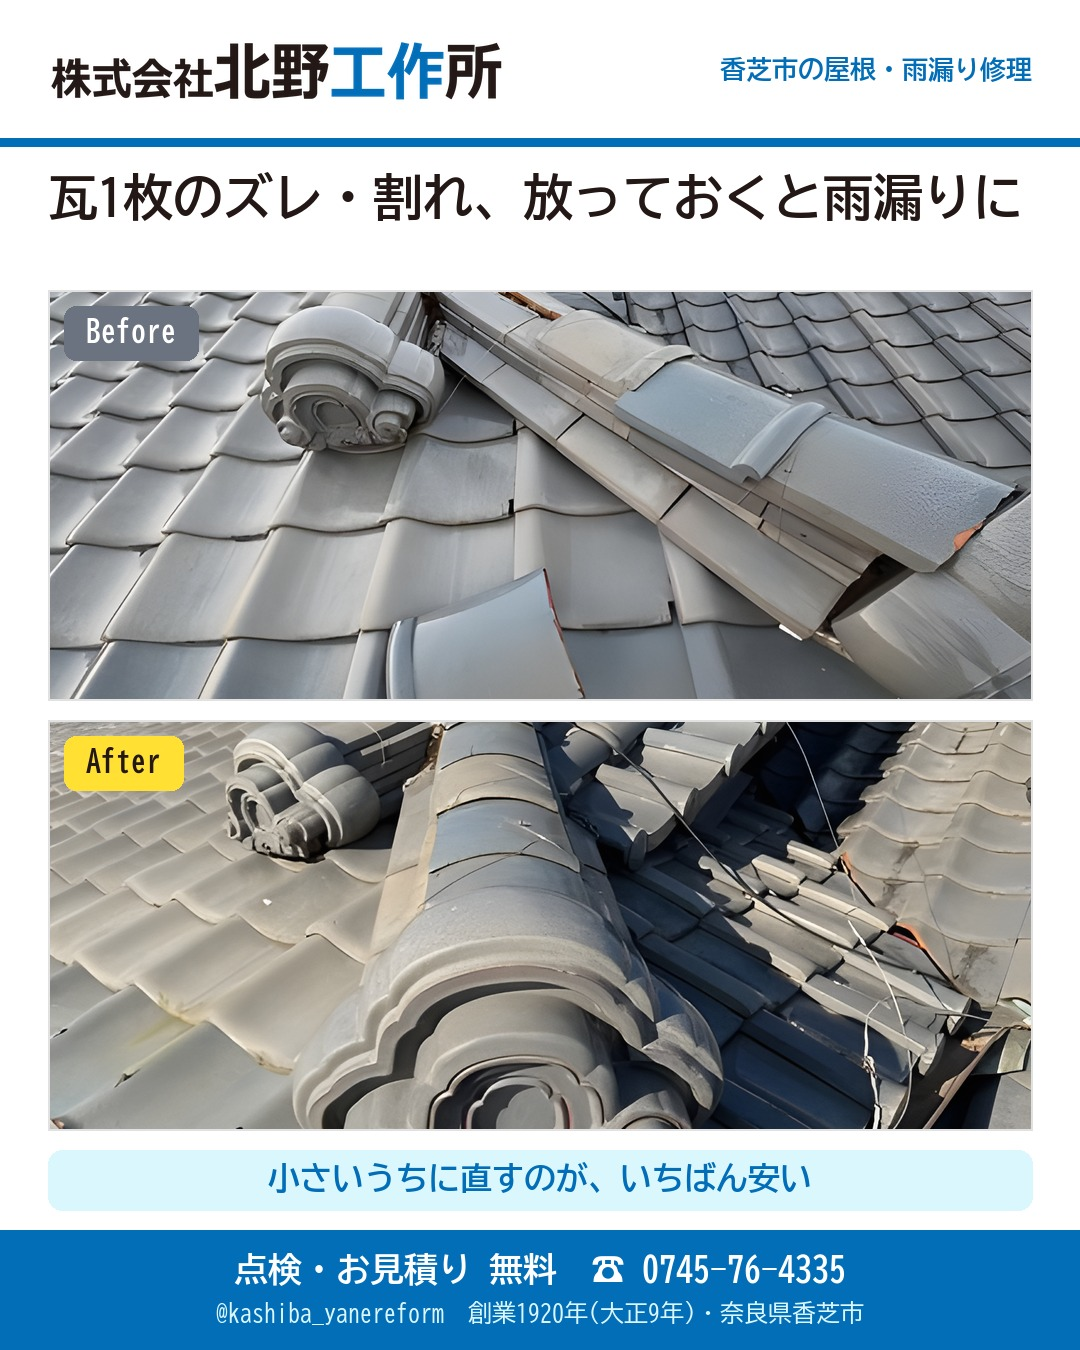
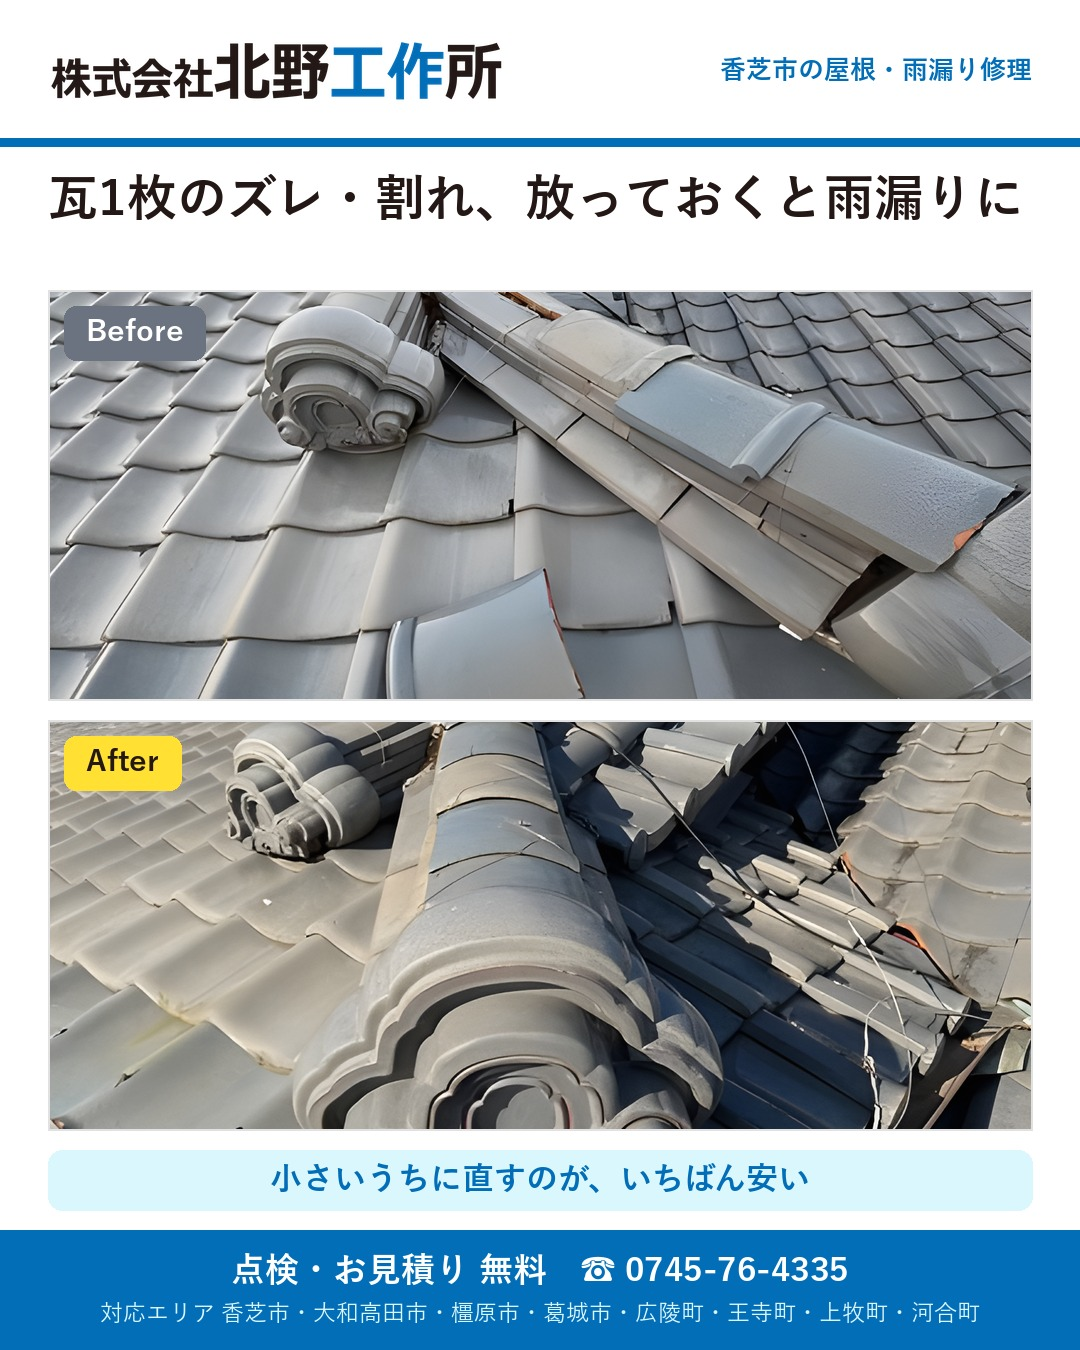
游ゴシックに統一・対応エリア表記・近郊ハッシュタグ・対応エリア投稿(14)追加、1本目投稿し直し

diff --git a/make_posts.py b/make_posts.py
@@ -18,8 +18,8 @@ YELLOW = (255, 224, 51)    # #ffe033
 INK = (35, 24, 21)         # ロゴの黒 #231815
 GRAY = (107, 114, 128)
 WHITE = (255, 255, 255)
-FB = "/mnt/c/Windows/Fonts/BIZ-UDGothicB.ttc"
-FR = "/mnt/c/Windows/Fonts/BIZ-UDGothicR.ttc"
+FB = "/mnt/c/Windows/Fonts/YuGothB.ttc"   # サイトと同じ游ゴシック(太字)
+FR = "/mnt/c/Windows/Fonts/YuGothM.ttc"   # 游ゴシック(中字)
 LOGO = Image.open(HERE / "logo_color.png").convert("RGBA")
 
 def font(size, bold=True):
@@ -77,7 +77,7 @@ def base(subtitle="香芝市の屋根・雨漏り修理"):
     d.rectangle([0, 1230, W, H], fill=BLUE)
     f1 = font(34); t1 = "点検・お見積り 無料　☎ 0745-76-4335"
     d.text(((W - f1.getlength(t1)) / 2, 1252), t1, font=f1, fill=WHITE)
-    f2 = font(24, False); t2 = "@kashiba_yanereform　創業1920年(大正9年)・奈良県香芝市"
+    f2 = font(23, False); t2 = "対応エリア 香芝市・大和高田市・橿原市・葛城市・広陵町・王寺町・上牧町・河合町"
     d.text(((W - f2.getlength(t2)) / 2, 1300), t2, font=f2, fill=LIGHT)
     return im, d
 
@@ -110,7 +110,7 @@ def save(im, n, slug, caption):
     (OUT / f"{n:02d}_{slug}.txt").write_text(caption.strip() + "\n\n" + TAGS, encoding="utf-8")
     print("saved", n, slug)
 
-TAGS = "#北野工作所 #香芝市 #香芝 #奈良県 #橿原市 #大和高田市 #広陵町 #王寺町 #屋根工事 #屋根修理 #雨漏り修理 #雨漏り #屋根リフォーム #瓦屋根 #瓦修理 #棟板金 #雨樋交換 #カバー工法 #葺き替え #板金工事 #奈良屋根 #香芝屋根 #まちの屋根屋さん #創業大正9年"
+TAGS = "#北野工作所 #香芝市 #香芝 #奈良県 #橿原市 #大和高田市 #広陵町 #王寺町 #屋根工事 #屋根修理 #雨漏り修理 #雨漏り #屋根リフォーム #瓦屋根 #瓦修理 #棟板金 #雨樋交換 #カバー工法 #葺き替え #板金工事 #葛城市 #上牧町 #河合町 #五位堂 #香芝市屋根修理 #香芝市雨漏り #まちの屋根屋さん #創業大正9年"
 CTA = """
 
 ────────────
@@ -118,6 +118,7 @@ CTA = """
 株式会社北野工作所(奈良県香芝市五位堂)
 ☎ 0745-76-4335(8:00〜18:00)
 現地調査・お見積りは無料です
+香芝市・大和高田市・橿原市・葛城市・広陵町・王寺町・上牧町・河合町 すぐ伺います
 LINE・ホームページはプロフィールのリンクから
 ────────────"""
 # ---------- 1 代表あいさつ ----------
@@ -414,6 +415,39 @@ def post13():
 気になったら、無理にご自身で登らず、ぜひプロにお任せください。安全にしっかり点検・清掃します。""" + CTA
     save(im, 13, "amadoi", cap)
 
+# ---------- 14 対応エリア ----------
+def post14():
+    im, d = base()
+    title_block(d, "香芝市と、そのまわり。\nすぐ伺います", size=54)
+    truck = Image.open("/mnt/c/Users/藤森　保弘/Desktop/北野工作所/インスタ/track.png").convert("RGBA")
+    tw = 660; truck = truck.resize((tw, int(truck.height * tw / truck.width)), Image.LANCZOS)
+    im.paste(truck, (int((W - tw) / 2), 330), truck)
+    y = 330 + truck.height + 30
+    f = font(34); d.text((W / 2 - f.getlength("対応エリア") / 2, y), "対応エリア", font=f, fill=BLUE); y += 60
+    areas = ["香芝市", "大和高田市", "橿原市", "葛城市", "広陵町", "王寺町", "上牧町", "河合町"]
+    fa = font(36); bw, bh, gap = 220, 70, 16
+    for i, a in enumerate(areas):
+        x = 48 + 8 + (i % 4) * (bw + gap); yy = y + (i // 4) * (bh + gap)
+        rounded(d, [x, yy, x + bw, yy + bh], 14, LIGHT)
+        d.text((x + (bw - fa.getlength(a)) / 2, yy + 14), a, font=fa, fill=INK)
+    band_note(d, "近鉄五位堂駅から西へ300m。地元の屋根屋です", y=1150)
+    cap = """北野工作所の事務所は、近鉄五位堂駅から西へ300m(徒歩5分)。香芝市五位堂で106年、屋根の仕事をしています。
+
+対応エリアは、香芝市と、そのまわりの町です。
+・香芝市
+・大和高田市
+・橿原市
+・葛城市
+・広陵町
+・王寺町
+・上牧町
+・河合町
+
+近いので、「ちょっと見てほしい」にすぐ動けます。雨漏りの応急処置、瓦1枚の補修、雨どいの掃除。大きな工事でなくても大丈夫です。
+
+同じ地域に住んでいる屋根屋だからこそ、直したあとも、ずっとお付き合いできます。""" + CTA
+    save(im, 14, "area", cap)
+
 if __name__ == "__main__":
-    for fn in [post01, post02, post03, post04, post05, post06, post07, post08, post09, post10, post11, post12, post13]:
+    for fn in [post01, post02, post03, post04, post05, post06, post07, post08, post09, post10, post11, post12, post13, post14]:
         fn()
